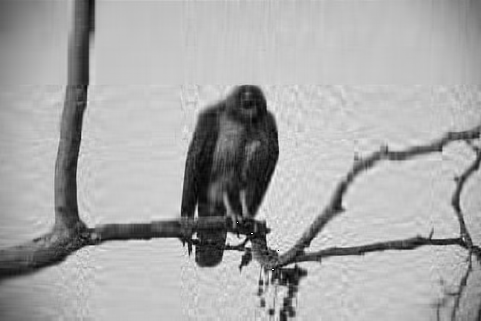
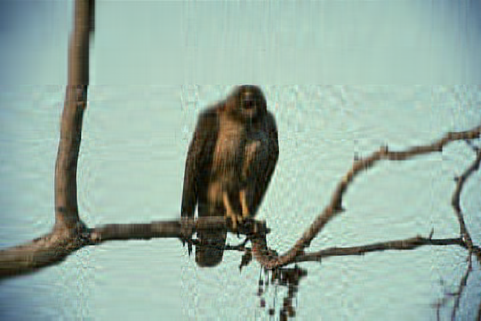
Able to process colorful image

diff --git a/script.py b/script.py
@@ -5,22 +5,22 @@ import numpy as np
 import os
 from matplotlib import pyplot as plt
 from PIL import Image
-from skimage import color
 
 # 2. Importing Image
-image_path = './input/42049.jpg'  # modify with your image path
+image_path = './input/42049.jpg'
 original_image = Image.open(image_path)
-
-# 3. Process the image to get the 3 matrices
 image_array = np.array(original_image)
-# If the image is RGB, we can convert it to grayscale, or separately process each channel.
-# Here we treat the image as grayscale for simplicity.
-if len(image_array.shape) == 3:
-    image_array = color.rgb2gray(image_array)
+
+# 3. Process the image to get the 3 matrices R, G, B
+R = image_array[:, :, 0]
+G = image_array[:, :, 1]
+B = image_array[:, :, 2]
 
 # 4. Process to get the original rank of the image
-U, s, VT = np.linalg.svd(image_array, full_matrices=False)
-original_rank = np.linalg.matrix_rank(image_array)
+# (Assuming all channels have the same dimensions, hence the same rank)
+R_rank = np.linalg.matrix_rank(R)
+G_rank = np.linalg.matrix_rank(G)
+B_rank = np.linalg.matrix_rank(B)
 
 # 5. For 5%, 10%, 30%, 60%, 80%, and 100% of the original rank, calculate the compressed image with the SVD
 percentages = [0.05, 0.1, 0.3, 0.6, 0.8, 1.0]
@@ -28,12 +28,31 @@ compression_ratios = []
 errors = []
 
 for percentage in percentages:
-    rank = int(original_rank * percentage)
-    compressed_image = (U[:, :rank] * s[:rank]) @ VT[:rank, :]
+    rank = {
+        'R': int(R_rank * percentage),
+        'G': int(G_rank * percentage),
+        'B': int(B_rank * percentage)
+    }
+    
+    # Apply SVD for each channel
+    U_R, s_R, VT_R = np.linalg.svd(R, full_matrices=False)
+    U_G, s_G, VT_G = np.linalg.svd(G, full_matrices=False)
+    U_B, s_B, VT_B = np.linalg.svd(B, full_matrices=False)
+    
+    # Reconstruct the image channels at the given rank
+    R_compressed = (U_R[:, :rank['R']] * s_R[:rank['R']]) @ VT_R[:rank['R'], :]
+    G_compressed = (U_G[:, :rank['G']] * s_G[:rank['G']]) @ VT_G[:rank['G'], :]
+    B_compressed = (U_B[:, :rank['B']] * s_B[:rank['B']]) @ VT_B[:rank['B'], :]
+    
+    # Stack the channels back together
+    compressed_image = np.stack((R_compressed, G_compressed, B_compressed), axis=-1)
+    compressed_image = np.clip(compressed_image, 0, 255)  # Clipping to valid range
     
     # 6. Calculate the compression ratio
-    image_size = image_array.shape[0] * image_array.shape[1]
-    compressed_size = rank * (U.shape[1] + VT.shape[0] + 1)
+    image_size = np.prod(image_array.shape)
+    compressed_size = (rank['R'] * (U_R.shape[1] + VT_R.shape[0] + 1) +
+                       rank['G'] * (U_G.shape[1] + VT_G.shape[0] + 1) +
+                       rank['B'] * (U_B.shape[1] + VT_B.shape[0] + 1))
     compression_ratio = compressed_size / image_size
     compression_ratios.append(compression_ratio)
     
@@ -46,7 +65,7 @@ for percentage in percentages:
     if not os.path.exists(output_dir):
         os.makedirs(output_dir)
     compressed_image_path = os.path.join(output_dir, 'compressed_image_{}.png'.format(int(percentage * 100)))
-    Image.fromarray(np.uint8(compressed_image * 255)).save(compressed_image_path)
+    Image.fromarray(compressed_image.astype(np.uint8)).save(compressed_image_path)
 
 # 8. Plot the error vs compression ratio
 plt.figure(figsize=(10, 6))
@@ -62,6 +81,6 @@ plt.show()
 error_compression_output_path = 'error_compression_data.txt'
 with open(error_compression_output_path, 'w') as f:
     for percentage, error, ratio in zip(percentages, errors, compression_ratios):
-        f.write('Percentage: {:.0f}%, Error: {:.2f}, Compression Ratio: {:.2f}\n'.format(percentage * 100, error, ratio))
+        f.write('Percentage: {:.0f}%, Error: {:.2f}, Compression Ratio: {:.4f}\n'.format(percentage * 100, error, ratio))
 
 print('SVD image compression complete. Compressed images and graphs have been saved.')
